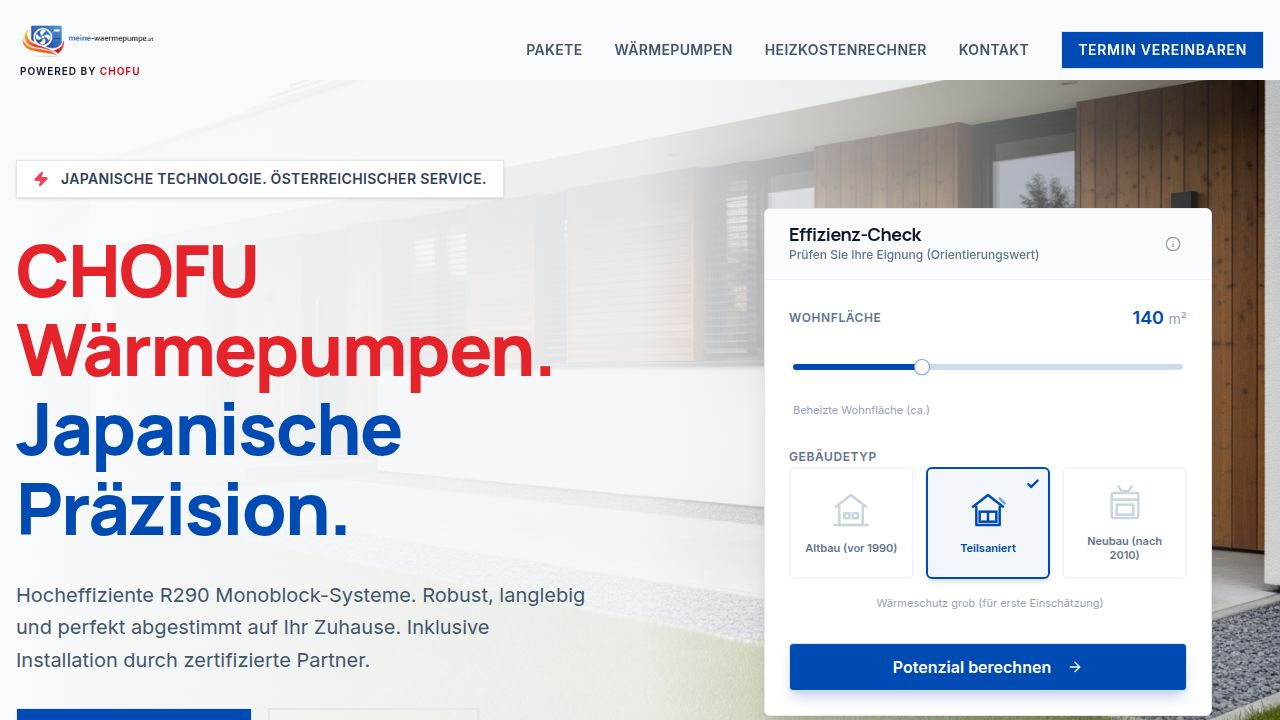
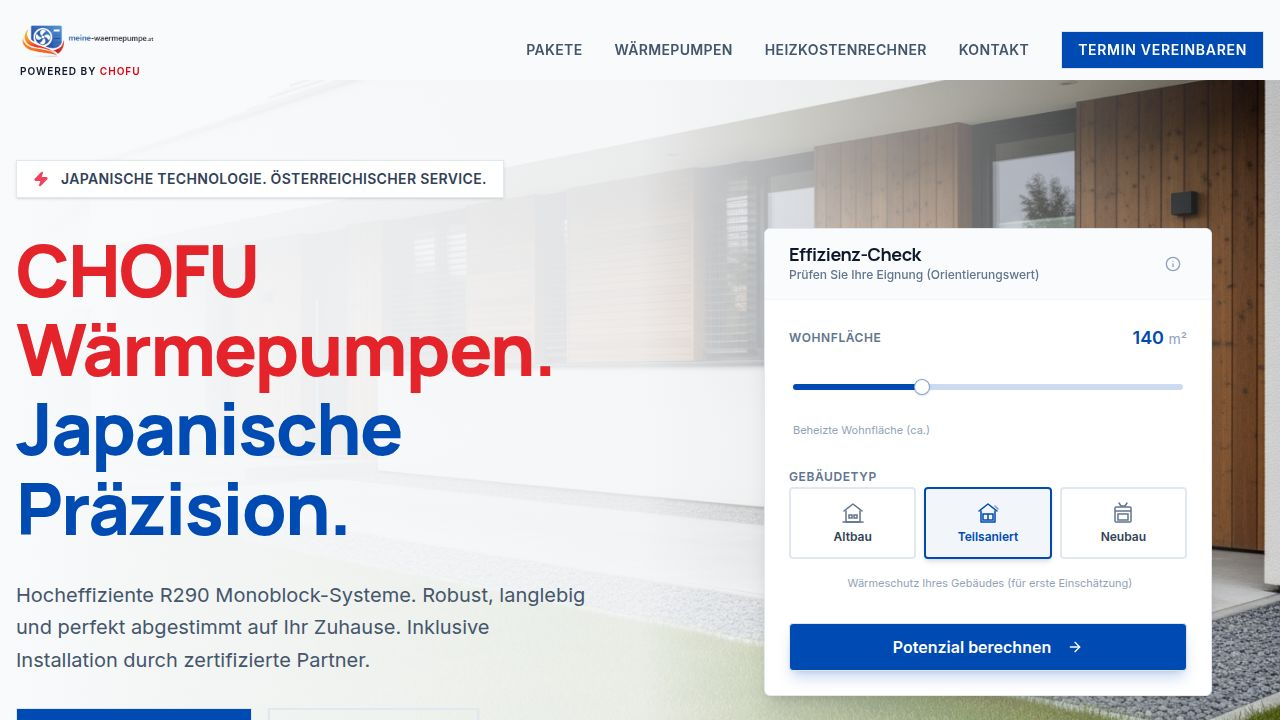
Update suitability check to use typical cold conditions
Refactor `recommendModel` in `chofuCapacity.ts` to use `designAirTemp = -2` and implement a three-tier status logic ("ok", "borderline", "exceeds_10kw_package"). Update `home.tsx` to reflect these changes in UI and messaging, including dynamic suitability descriptions and CTAs based on the new status.

Replit-Commit-Author: Agent
Replit-Commit-Session-Id: e31fd23f-0c99-4741-8f16-616bf2bc7b3c
Replit-Commit-Checkpoint-Type: intermediate_checkpoint
Replit-Commit-Event-Id: b6d83b3c-bd11-498f-8207-f51aa25ab845
Replit-Commit-Screenshot-Url: https://storage.googleapis.com/screenshot-production-us-central1/d5bef52e-3ff3-45f0-8082-22a028fb348c/e31fd23f-0c99-4741-8f16-616bf2bc7b3c/KDmja8t
Replit-Helium-Checkpoint-Created: true

Changed region(s): [[0.5938, 0.4278, 0.9688, 1.0], [0.5938, 0.275, 0.9688, 0.3972]]

diff --git a/client/src/pages/home.tsx b/client/src/pages/home.tsx
@@ -87,11 +87,15 @@ export default function Home() {
     recommendation: string;
     modelId?: string;
     marginPct?: number;
-    status: "ok" | "exceeds_10kw_package";
-    suitability: "Sehr gut geeignet" | "Geeignet" | "Projekt prüfen";
+    status: "ok" | "borderline" | "exceeds_10kw_package";
+    suitability: "Geeignet" | "Projekt prüfen (Grenzbereich)" | "Über Paketbereich";
     suitabilityColor: string;
     buildingLabel: string;
+    message?: string;
   } | null>(null);
+
+  // Effizienz-Check uses A-2 (typical cold) for suitability check
+  const EFF_CHECK_AIR_TEMP = -2;
 
   const handleCalc = () => {
     const area = parseFloat(calcData.size);
@@ -108,32 +112,30 @@ export default function Home() {
     
     const modelResult = recommendModel({
       heizlastKw,
-      designAirTemp: -7,
+      designAirTemp: EFF_CHECK_AIR_TEMP,
       designWaterTemp: buildingType.designWaterTemp,
       safetyFactor: 1.05
     });
 
     let recommendation = "";
-    let suitability: "Sehr gut geeignet" | "Geeignet" | "Projekt prüfen" = "Geeignet";
-    let suitabilityColor = "bg-blue-100 text-blue-700 border-blue-200";
+    let suitability: "Geeignet" | "Projekt prüfen (Grenzbereich)" | "Über Paketbereich" = "Geeignet";
+    let suitabilityColor = "bg-green-100 text-green-700 border-green-200";
+    let message = "";
 
     if (modelResult.status === "ok") {
       recommendation = modelResult.modelLabel || "CHOFU";
-      
-      if (modelResult.marginPct && modelResult.marginPct > 30) {
-        suitability = "Sehr gut geeignet";
-        suitabilityColor = "bg-green-100 text-green-700 border-green-200";
-      } else if (modelResult.marginPct && modelResult.marginPct > 10) {
-        suitability = "Geeignet";
-        suitabilityColor = "bg-blue-100 text-blue-700 border-blue-200";
-      } else {
-        suitability = "Geeignet";
-        suitabilityColor = "bg-blue-100 text-blue-700 border-blue-200";
-      }
-    } else {
-      recommendation = "Projekt prüfen";
-      suitability = "Projekt prüfen";
+      suitability = "Geeignet";
+      suitabilityColor = "bg-green-100 text-green-700 border-green-200";
+    } else if (modelResult.status === "borderline") {
+      recommendation = modelResult.modelLabel || "CHOFU 10 kW";
+      suitability = "Projekt prüfen (Grenzbereich)";
       suitabilityColor = "bg-amber-100 text-amber-700 border-amber-200";
+      message = modelResult.message || "Im Grenzbereich. Für exakte Auslegung empfehlen wir eine Projektprüfung/Besichtigung.";
+    } else {
+      recommendation = "16 kW anfragen";
+      suitability = "Über Paketbereich";
+      suitabilityColor = "bg-red-100 text-red-700 border-red-200";
+      message = modelResult.message || "Der Wärmebedarf liegt über dem 10-kW-Paketbereich. Fragen Sie unser 16-kW CHOFU Modell an (nicht im Paket).";
     }
 
     setTimeout(() => {
@@ -147,7 +149,8 @@ export default function Home() {
         status: modelResult.status,
         suitability,
         suitabilityColor,
-        buildingLabel: buildingType.label
+        buildingLabel: buildingType.label,
+        message
       });
       setCalcStep(2);
       setIsCalculating(false);
@@ -311,9 +314,9 @@ export default function Home() {
                     {/* Result Header Badge */}
                     <div className="flex justify-center mb-2">
                       <div className={`px-4 py-1.5 rounded-full text-sm font-bold border ${result?.suitabilityColor} flex items-center gap-2`}>
-                        {result?.suitability === "Sehr gut geeignet" && <Check size={16} strokeWidth={3} />}
-                        {result?.suitability === "Geeignet" && <Check size={16} strokeWidth={3} />}
-                        {result?.suitability === "Projekt prüfen" && <AlertTriangle size={16} strokeWidth={3} />}
+                        {result?.status === "ok" && <Check size={16} strokeWidth={3} />}
+                        {result?.status === "borderline" && <AlertTriangle size={16} strokeWidth={3} />}
+                        {result?.status === "exceeds_10kw_package" && <AlertTriangle size={16} strokeWidth={3} />}
                         {result?.suitability}
                       </div>
                     </div>
@@ -326,11 +329,29 @@ export default function Home() {
                           {result?.low}–{result?.high} <span className="text-xs text-slate-500 font-normal">kW</span>
                         </div>
                       </div>
-                      <div className={`p-3 rounded-lg border text-center ${result?.status === "ok" ? "ring-1 ring-primary/20 bg-primary/5 border-slate-100" : "bg-amber-50 border-amber-200"}`}>
-                        <div className={`text-[10px] uppercase font-bold mb-1 ${result?.status === "ok" ? "text-primary" : "text-amber-700"}`}>
-                          {result?.status === "ok" ? "Empfehlung" : "Status"}
+                      <div className={`p-3 rounded-lg border text-center ${
+                        result?.status === "ok" 
+                          ? "ring-1 ring-primary/20 bg-primary/5 border-slate-100" 
+                          : result?.status === "borderline"
+                          ? "bg-amber-50 border-amber-200"
+                          : "bg-red-50 border-red-200"
+                      }`}>
+                        <div className={`text-[10px] uppercase font-bold mb-1 ${
+                          result?.status === "ok" 
+                            ? "text-primary" 
+                            : result?.status === "borderline"
+                            ? "text-amber-700"
+                            : "text-red-700"
+                        }`}>
+                          Empfehlung
                         </div>
-                        <div className={`font-bold text-sm md:text-base leading-tight ${result?.status === "ok" ? "text-primary" : "text-amber-700"}`}>
+                        <div className={`font-bold text-sm md:text-base leading-tight ${
+                          result?.status === "ok" 
+                            ? "text-primary" 
+                            : result?.status === "borderline"
+                            ? "text-amber-700"
+                            : "text-red-700"
+                        }`}>
                           {result?.recommendation}
                         </div>
                       </div>
@@ -342,22 +363,28 @@ export default function Home() {
                       </div>
                     </div>
 
-                    {/* Explanation or 16kW Info */}
+                    {/* Explanation Message */}
                     {result?.status === "ok" ? (
                       <div className="space-y-2">
-                        {result?.marginPct !== undefined && (
+                        {result?.marginPct !== undefined && result.marginPct > 0 && (
                           <p className="text-xs text-green-600 text-center font-medium">
                             Reserve: {result.marginPct.toFixed(0)}%
                           </p>
                         )}
                         <p className="text-xs text-slate-500 leading-relaxed text-center px-2">
-                          Orientierungswert. Exakte Auslegung durch Fachbetrieb empfohlen.
+                          Orientierungswert. Die Empfehlung basiert auf typischen Bedingungen. Exakte Auslegung durch Fachbetrieb empfohlen.
+                        </p>
+                      </div>
+                    ) : result?.status === "borderline" ? (
+                      <div className="bg-amber-50 border border-amber-200 rounded-lg p-4 space-y-2">
+                        <p className="text-sm text-amber-800 leading-relaxed text-center">
+                          {result?.message}
                         </p>
                       </div>
                     ) : (
-                      <div className="bg-amber-50 border border-amber-200 rounded-lg p-4 space-y-2">
-                        <p className="text-sm text-amber-800 leading-relaxed text-center">
-                          Der Wärmebedarf liegt über dem 10-kW-Paketbereich. Fragen Sie unser 16-kW CHOFU Modell an (nicht im Paket).
+                      <div className="bg-red-50 border border-red-200 rounded-lg p-4 space-y-2">
+                        <p className="text-sm text-red-800 leading-relaxed text-center">
+                          {result?.message}
                         </p>
                       </div>
                     )}
@@ -365,7 +392,7 @@ export default function Home() {
                     {/* CTAs */}
                     <div className="space-y-3 pt-2">
                       {result?.status === "exceeds_10kw_package" ? (
-                        <Button asChild className="w-full h-12 rounded-lg font-bold shadow-md hover:shadow-lg transition-all bg-amber-600 hover:bg-amber-700">
+                        <Button asChild className="w-full h-12 rounded-lg font-bold shadow-md hover:shadow-lg transition-all bg-red-600 hover:bg-red-700">
                           <Link href={`/kontakt?area=${calcData.size}&type=${result?.buildingLabel}&recommendation=16kW&interestModel=16kW`}>
                             16-kW Modell anfragen
                           </Link>

diff --git a/client/src/lib/chofuCapacity.ts b/client/src/lib/chofuCapacity.ts
@@ -135,11 +135,12 @@ export function getCapacityAt(modelId: ChofuModelId, airTemp: number, waterTemp:
 }
 
 export interface RecommendationResult {
-  status: "ok" | "exceeds_10kw_package";
+  status: "ok" | "borderline" | "exceeds_10kw_package";
   modelId?: ChofuModelId;
   modelLabel?: string;
   capacityW?: number;
   requiredW: number;
+  nominalW: number;
   marginPct?: number;
   message?: string;
 }
@@ -152,13 +153,15 @@ export function recommendModel(params: {
 }): RecommendationResult {
   const {
     heizlastKw,
-    designAirTemp = -7,
+    designAirTemp = -2,
     designWaterTemp = 55,
     safetyFactor = 1.05
   } = params;
   
-  const requiredW = heizlastKw * 1000 * safetyFactor;
+  const nominalW = heizlastKw * 1000;
+  const requiredW = nominalW * safetyFactor;
   
+  // First, try to find a model that covers requiredW (with safety factor)
   for (const modelId of MODEL_ORDER) {
     const capacityW = getCapacityAt(modelId, designAirTemp, designWaterTemp);
     
@@ -171,15 +174,36 @@ export function recommendModel(params: {
         modelLabel: MODELS[modelId].label,
         capacityW,
         requiredW,
+        nominalW,
         marginPct
       };
     }
   }
   
+  // Check if the largest model (10kW) at least covers nominalW (without safety factor)
+  const largestModelId: ChofuModelId = "AEYC-1049ZU-CH1";
+  const largestCapacityW = getCapacityAt(largestModelId, designAirTemp, designWaterTemp);
+  
+  if (largestCapacityW >= nominalW) {
+    // Borderline: covers nominal but not required (with safety)
+    return {
+      status: "borderline",
+      modelId: largestModelId,
+      modelLabel: MODELS[largestModelId].label,
+      capacityW: largestCapacityW,
+      requiredW,
+      nominalW,
+      marginPct: ((largestCapacityW - nominalW) / nominalW) * 100,
+      message: "Im Grenzbereich. Für exakte Auslegung (Hydraulik, Heizflächen, Vorlauftemperaturen) empfehlen wir eine Projektprüfung/Besichtigung."
+    };
+  }
+  
+  // Exceeds package: even nominal load not covered
   return {
     status: "exceeds_10kw_package",
     requiredW,
-    message: "Der Wärmebedarf liegt über dem 10-kW-Paketbereich bei A-7/W55. Fragen Sie unser 16-kW CHOFU Modell an (nicht im Paket)."
+    nominalW,
+    message: "Der Wärmebedarf liegt über dem 10-kW-Paketbereich. Fragen Sie unser 16-kW CHOFU Modell an (nicht im Paket)."
   };
 }
 
